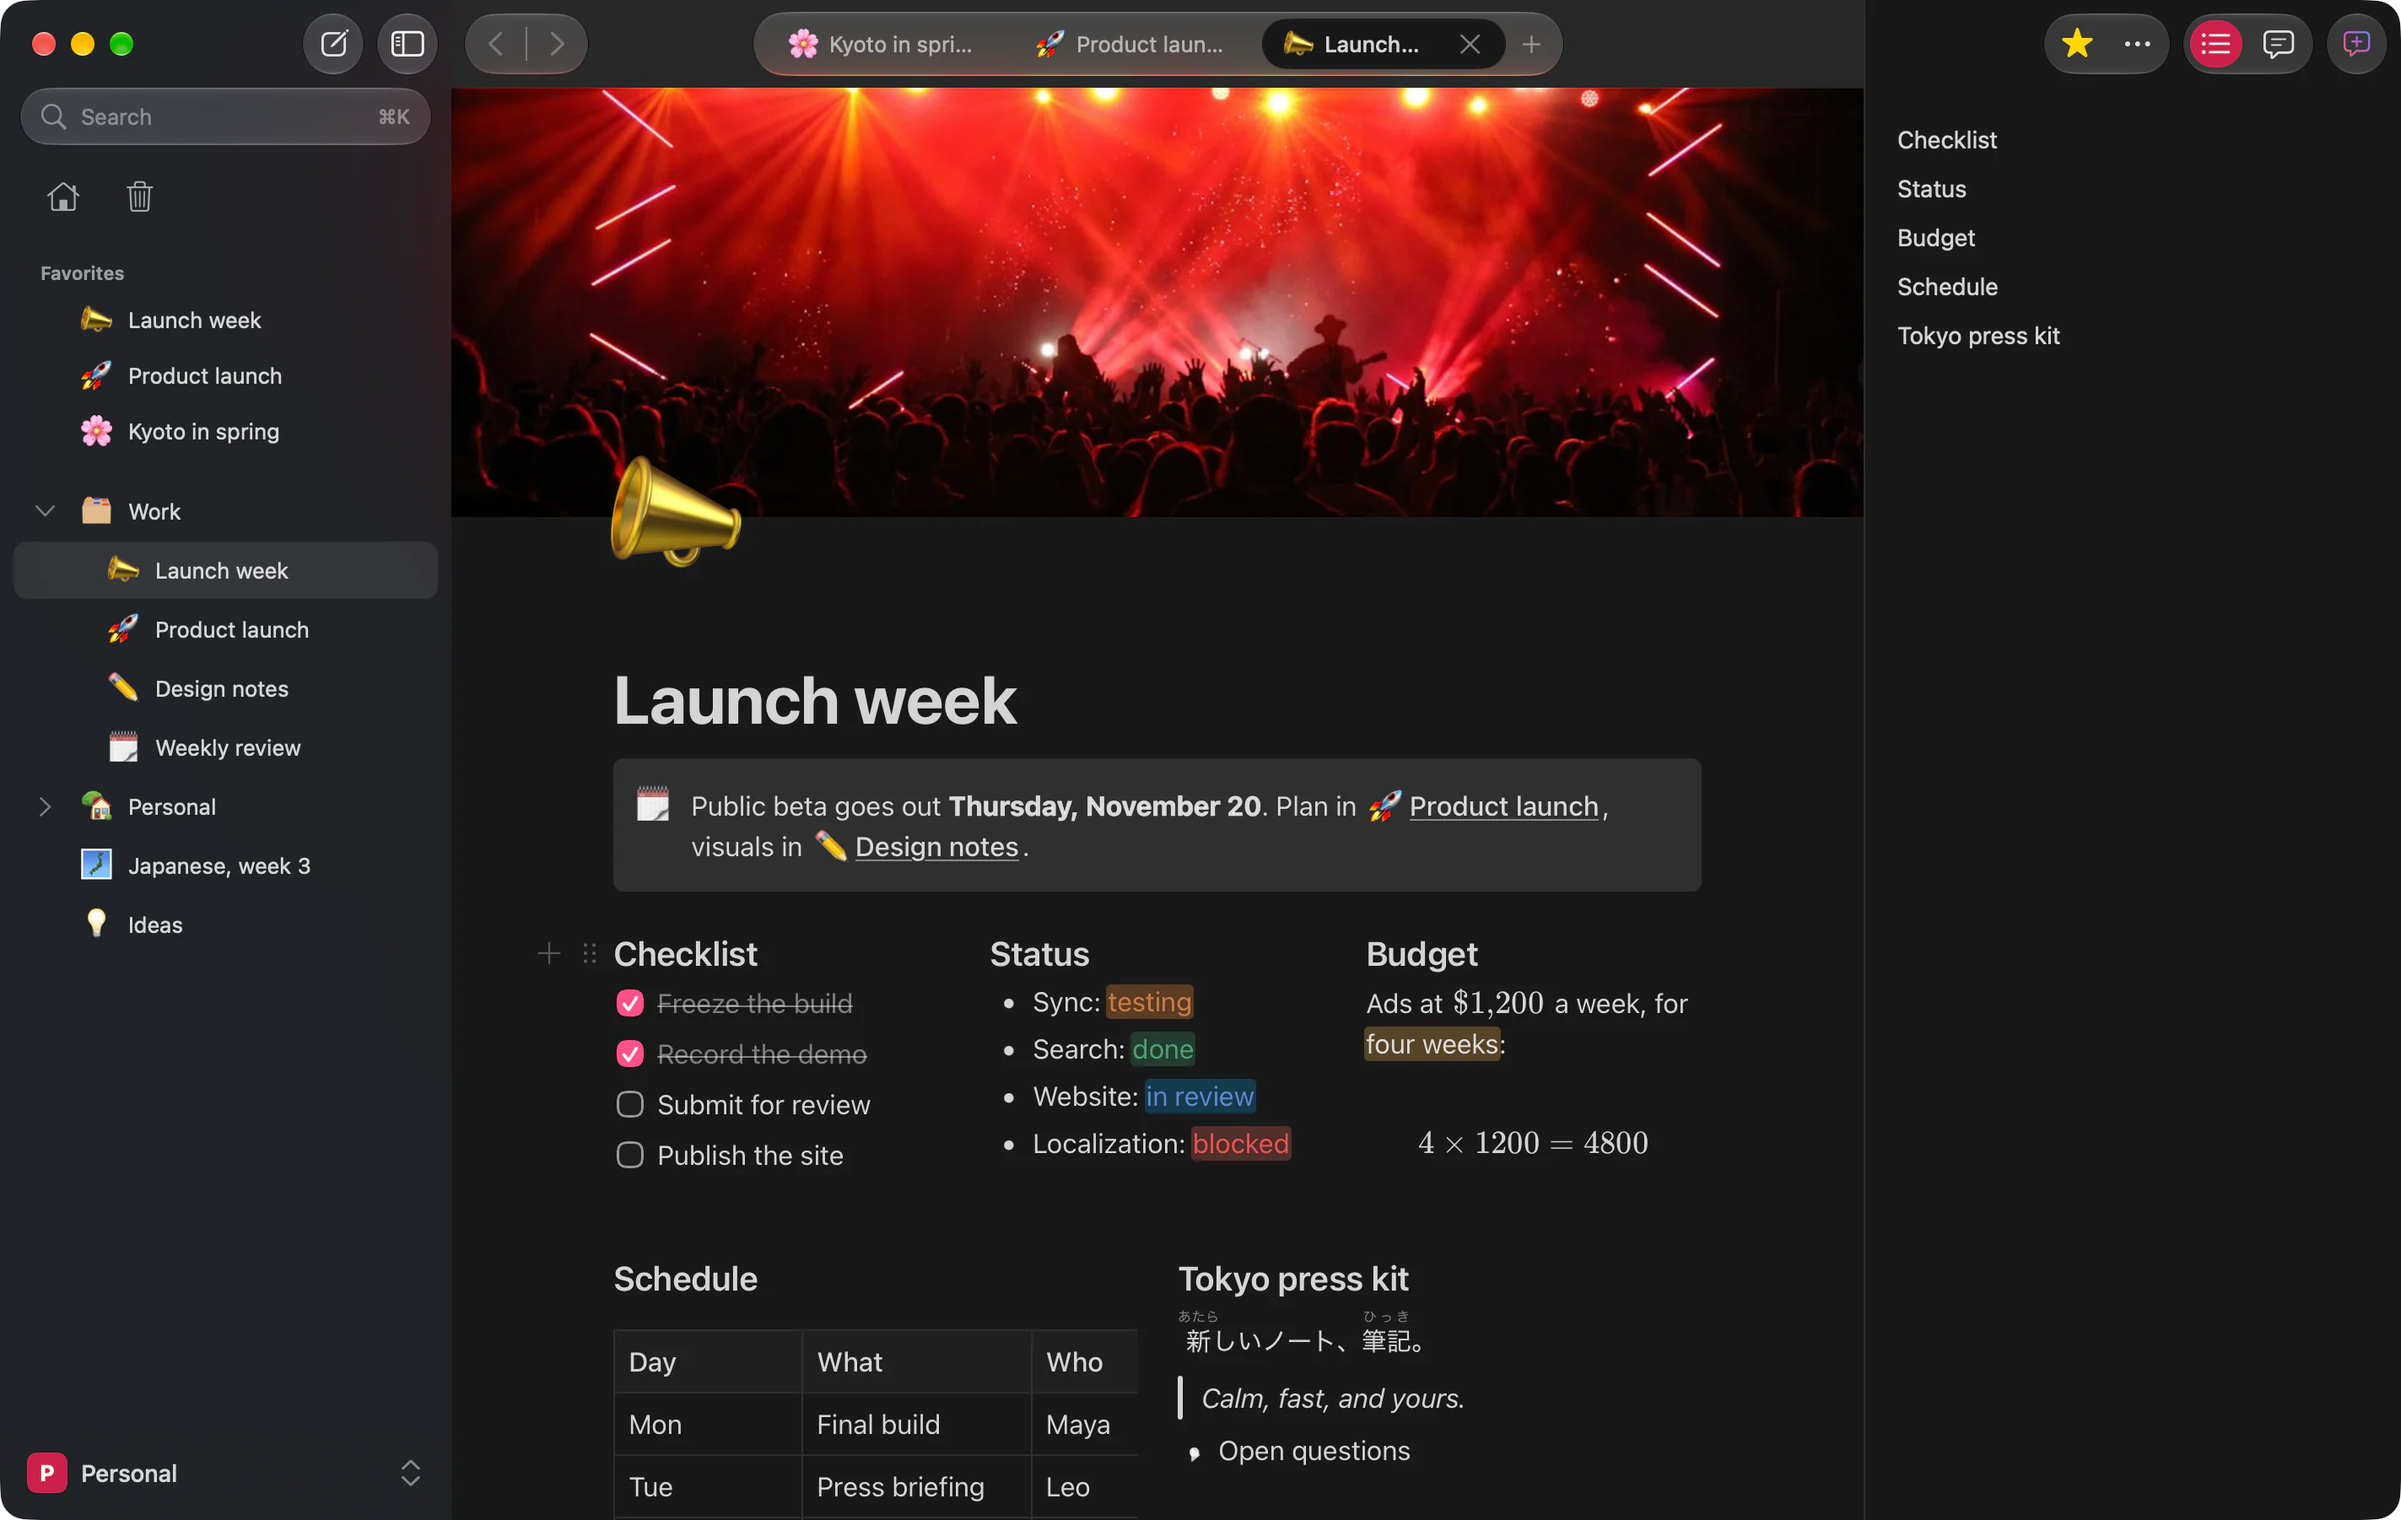
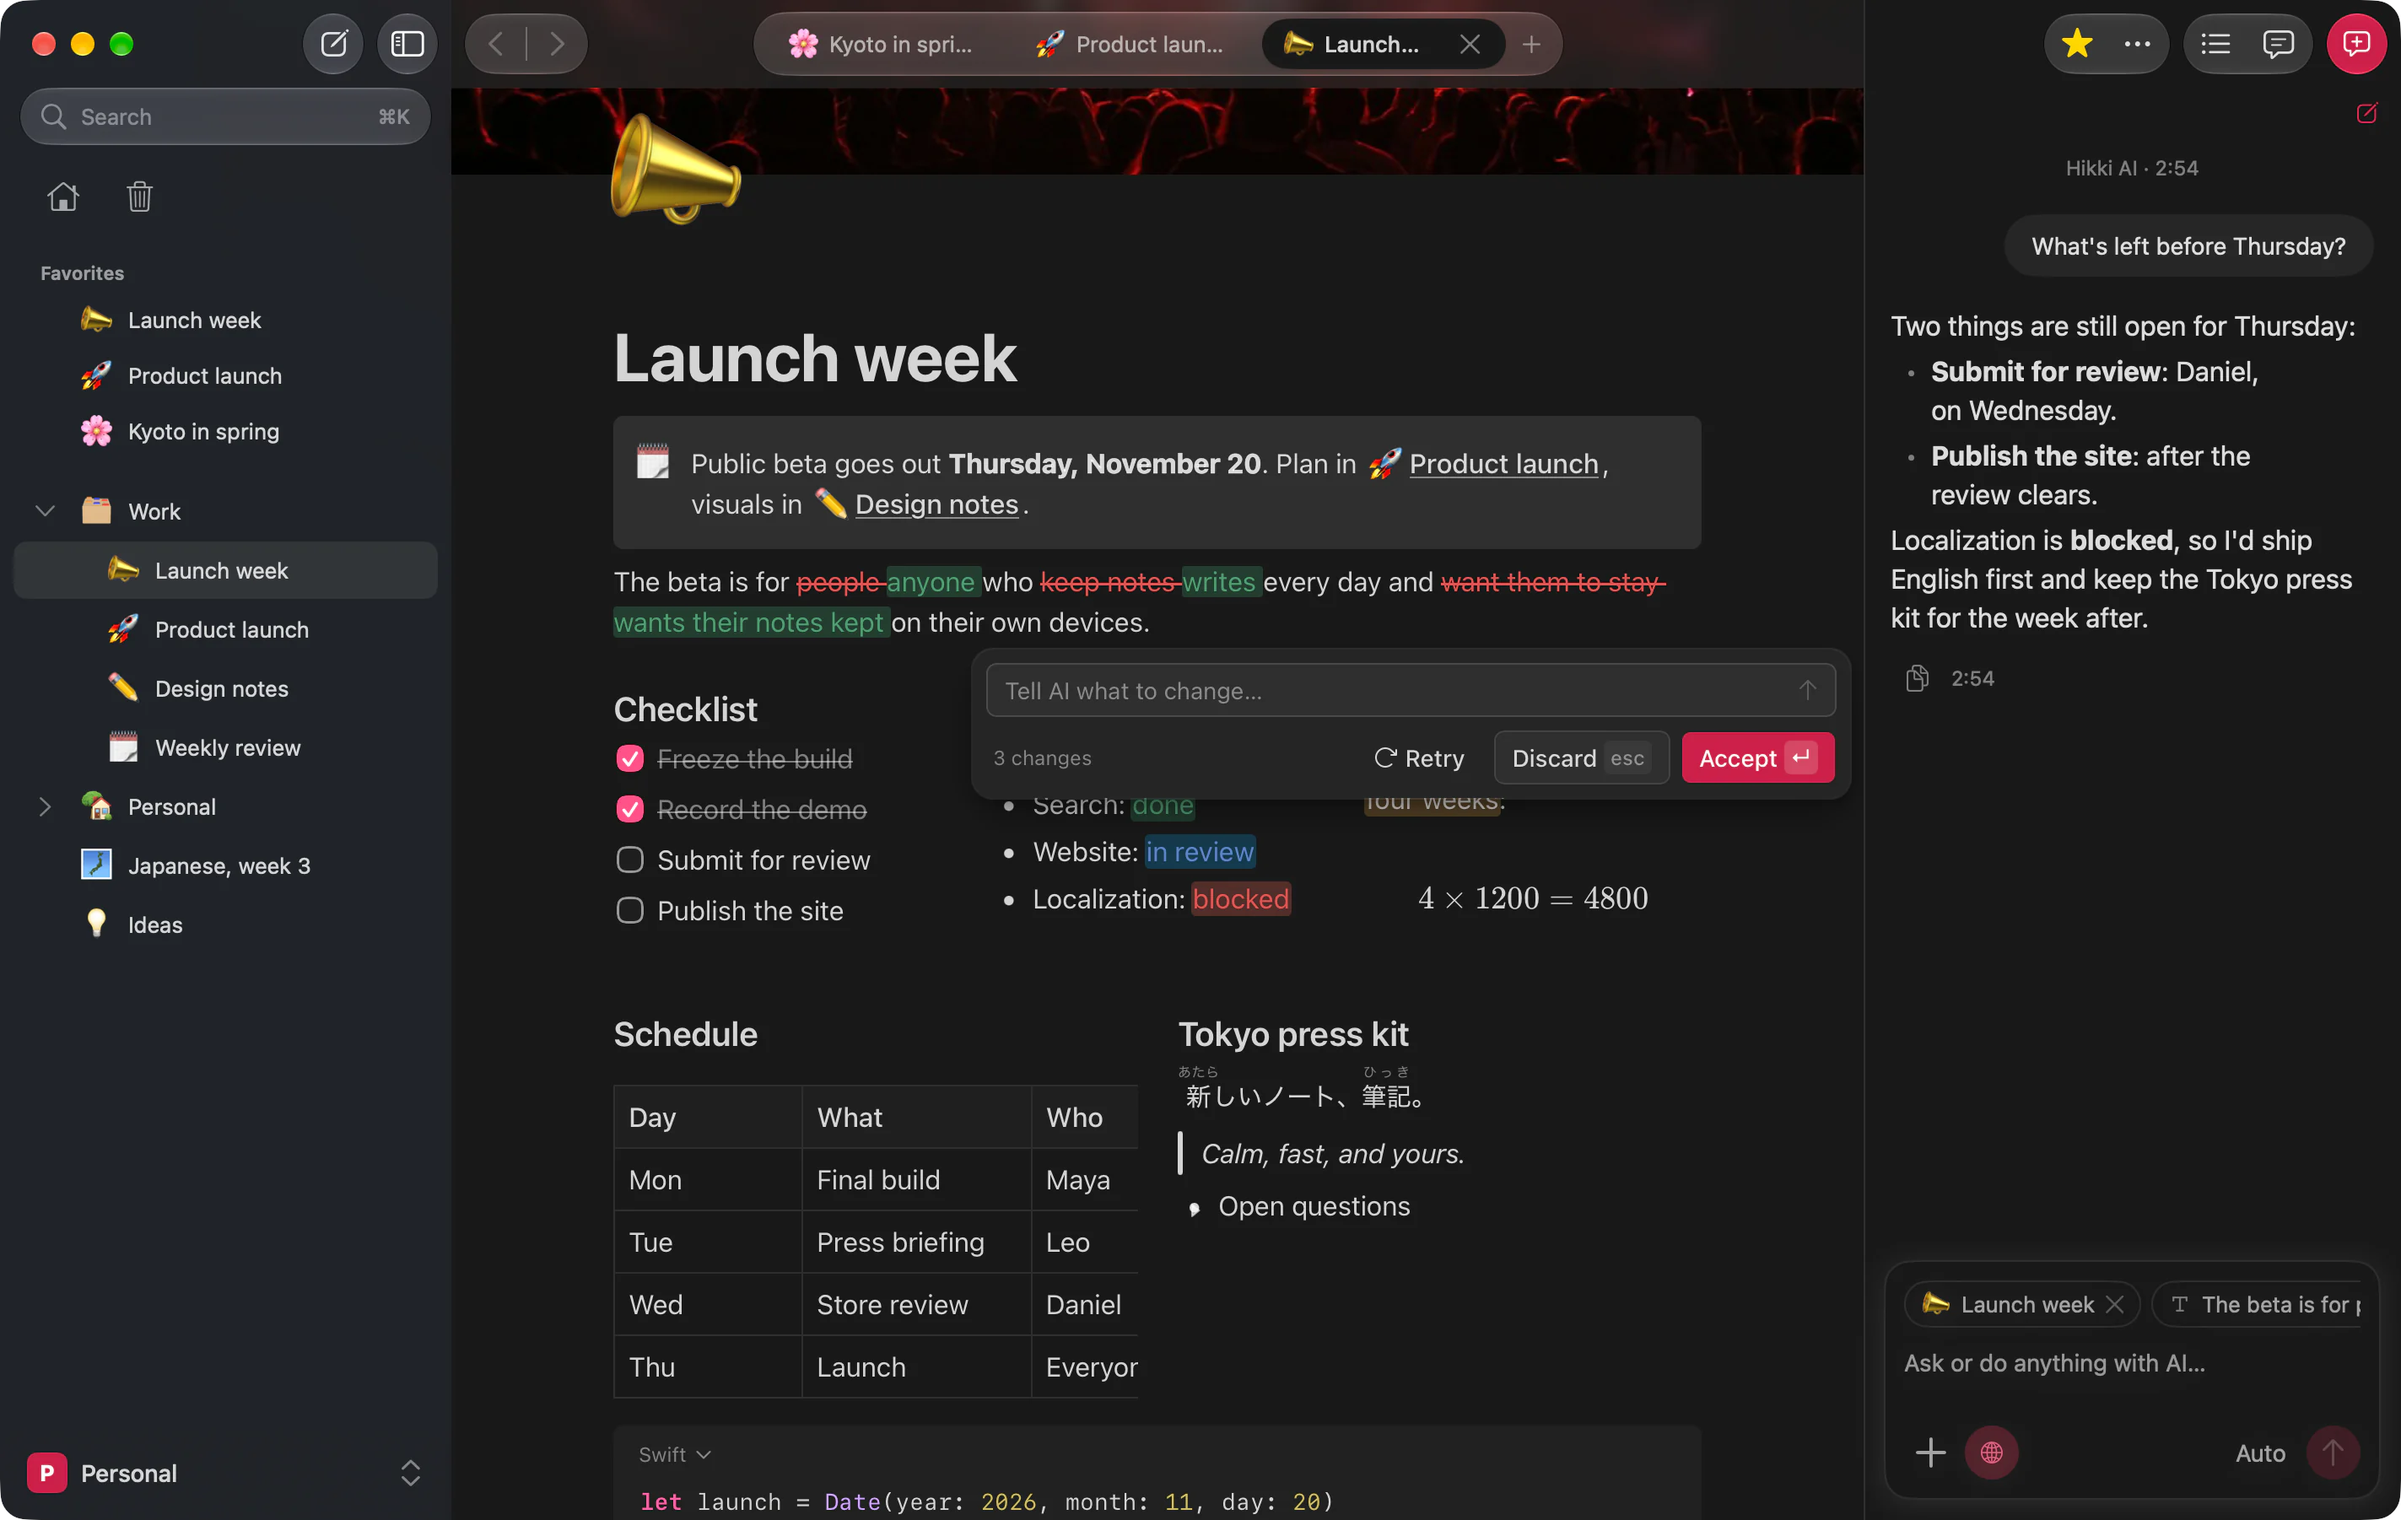
Website: the first screen shows AI at work on Mac, and four facts fill the left column on wide screens

diff --git a/website/src/routes/index.tsx b/website/src/routes/index.tsx
@@ -28,6 +28,14 @@ function Home() {
   )
 }
 
+/** The first screen's short list: what Hikki is, one line each. */
+const HERO_FACTS = [
+  { title: 'Local-first', text: 'Pages are files in a folder you choose.' },
+  { title: 'No telemetry', text: 'Nothing about how you use it leaves the device.' },
+  { title: 'Native', text: 'SwiftUI on iPhone, iPad and Mac.' },
+  { title: 'AI on your key', text: 'OpenAI or Anthropic, only when you ask.' }
+]
+
 function Hero() {
   return (
     <section class={`${row} grid-cols-1 lg:grid-cols-12 lg:grid-rows-[1fr_auto]`}>
@@ -35,6 +43,16 @@ function Hero() {
         <ruby class="furigana self-start text-[clamp(6rem,13vw,10.5rem)]" aria-label="Hikki (筆記)">
           筆記<rt>ひっき</rt>
         </ruby>
+        <dl class="hero-facts m-0 grid grid-cols-2 lg:hidden 2xl:grid">
+          <For each={HERO_FACTS}>
+            {(fact) => (
+              <div class="p-4">
+                <dt class="expanded text-[15px] font-[800]">{fact.title}</dt>
+                <dd class="m-0 mt-1 text-[14px] leading-snug text-muted">{fact.text}</dd>
+              </div>
+            )}
+          </For>
+        </dl>
         <div class="max-w-[34rem]">
           <h1 class="expanded text-[clamp(2.2rem,3.4vw,3.4rem)] leading-[1.04] font-[850] tracking-[-0.02em]">
             Notes that stay on your devices.

diff --git a/website/src/styles.css b/website/src/styles.css
@@ -78,6 +78,16 @@
   .bg-yellow {
     color: #000000;
   }
+  /* The first screen's facts: a small grid ruled like the page. */
+  .hero-facts {
+    border: 4px solid var(--color-line);
+    gap: 4px;
+    background: var(--color-line);
+  }
+  .hero-facts > div {
+    background: var(--color-paper);
+  }
+
   /* An AI action on the blue cell. */
   .ai-chip {
     display: inline-block;
